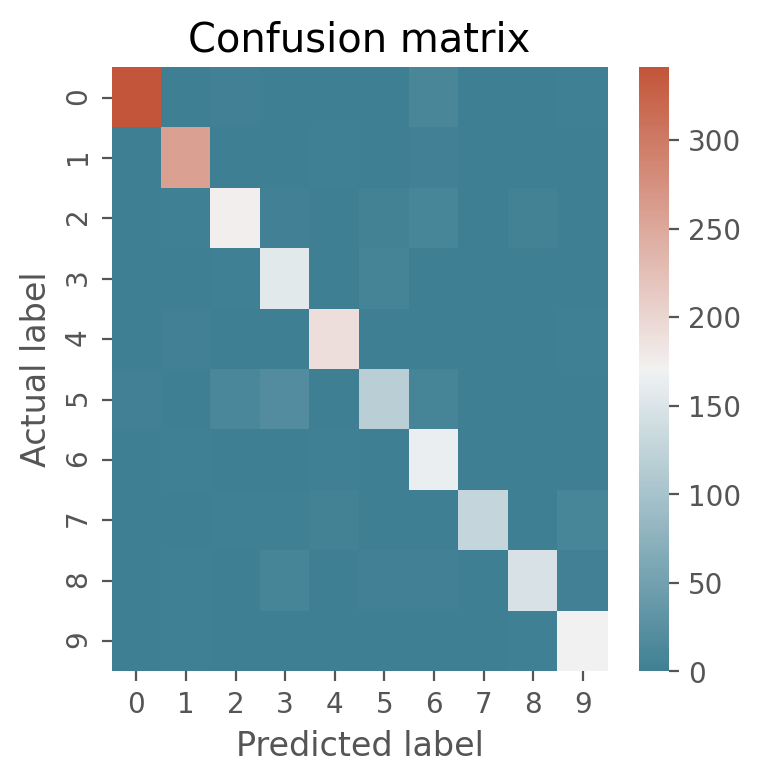
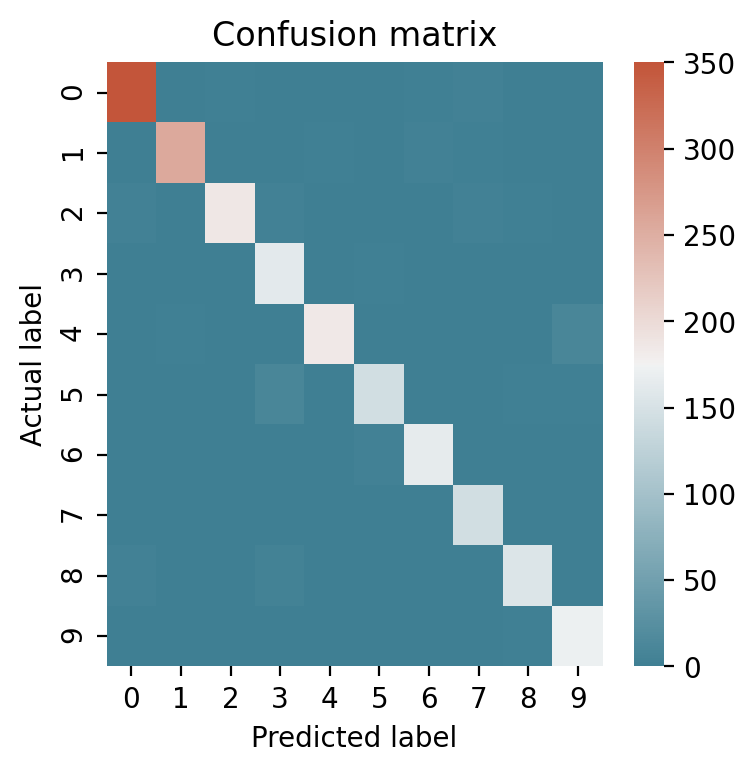
new best results

diff --git a/data.py b/data.py
@@ -1,37 +1,77 @@
 from torchvision import transforms
 import torchvision
 from torch.utils.data import DataLoader
+from RandAugment import RandAugment # https://github.com/ildoonet/pytorch-randaugment
+import torch
 
-def _get_transforms():
-    train_transform_weak = transforms.Compose([transforms.ToTensor(),
-                                            transforms.Resize(40),
-                                            transforms.RandomHorizontalFlip(),
-                                            #transforms.RandomVerticalFlip(),
-                                            transforms.RandomCrop(32)
-                                            ])
+def _get_transforms(use_randaugment=False):
+    """
+    if `use_randugment`=True we'll make use of RandAugment some modifications to the images are necessary:
+    we need to tile the images to expand them into having 3 channels and convert them into PIL images.
+    """
+    if use_randaugment:
+        class Tile():
+            def __init__(self):
+                pass
 
-    # ideally the strong transforms would use RandAugment, but I couldn't get it working...
-    train_transform_strong = transforms.Compose([transforms.ToTensor(),
-                                                transforms.Resize(40),
-                                                transforms.RandomHorizontalFlip(),
-                                                #transforms.RandomVerticalFlip(),
-                                                transforms.RandomCrop(32),
-                                                transforms.RandomInvert(),
-                                                transforms.RandomAutocontrast(),
-                                                transforms.RandomPerspective(),
-                                                transforms.GaussianBlur(kernel_size=(5, 9), sigma=(0.1, 1)),
-                                                transforms.RandomAffine(degrees=10, translate=(0.3, 0.3), scale=(0.7, 1.3), shear=(-2, 2, -2, 2))
-                                                ])
+            def __call__(self, tensor):
+                return torch.tile(tensor, (3, 1, 1)) # copies 2d array to the other 3 channels
+
+        train_transform_weak = transforms.Compose([transforms.ToTensor(),
+                                                   Tile(),
+                                                   transforms.ToPILImage(),
+                                                   transforms.RandomHorizontalFlip(),
+                                                   transforms.Resize(32),
+                                                   transforms.ToTensor()
+                                                   ])
+
+        train_transform_strong = transforms.Compose([transforms.ToTensor(),
+                                                     Tile(),
+                                                     transforms.ToPILImage(),
+                                                     transforms.Resize(32),
+                                                     RandAugment(2, 5), 
+                                                     transforms.ToTensor()
+                                                     ])
 
 
-    test_transform = transforms.Compose([transforms.ToTensor(),
-                                        transforms.Resize(32)
-                                        ])
+        test_transform = transforms.Compose([transforms.ToTensor(),
+                                             Tile(),
+                                             transforms.ToPILImage(),
+                                             transforms.Resize(32),
+                                             transforms.ToTensor()
+                                             ])
+                                                
+    else:
+        train_transform_weak = transforms.Compose([transforms.ToTensor(),
+                                                   transforms.Resize(40),
+                                                   #transforms.RandomHorizontalFlip(),
+                                                   transforms.RandomCrop(32),
+                                                   #transforms.Normalize(mean=[0.485, 0.456, 0.406], std=[0.229, 0.224, 0.225])
+                                                   ])
+
+        train_transform_strong = transforms.Compose([transforms.ToTensor(),
+                                                     transforms.Resize(40),
+                                                     #transforms.RandomHorizontalFlip(),
+                                                     #transforms.RandomVerticalFlip(),
+                                                     transforms.RandomCrop(32),
+                                                     transforms.RandomInvert(),
+                                                     #transforms.RandomAutocontrast(),
+                                                     transforms.GaussianBlur(kernel_size=(5, 9), sigma=(0.1, 1.)),
+                                                     transforms.RandomErasing(),
+                                                     transforms.RandomAffine(degrees=10, translate=(0.2, 0.2), scale=(0.2, 1.2))
+                                                     #transforms.Normalize(mean=[0.485, 0.456, 0.406], std=[0.229, 0.224, 0.225])
+                                                     ])
+
+
+        test_transform = transforms.Compose([transforms.ToTensor(),
+                                             transforms.Resize(32),
+                                             #transforms.Normalize(mean=[0.485, 0.456, 0.406], std=[0.229, 0.224, 0.225])
+                                             ])  
 
     return train_transform_weak, train_transform_strong, test_transform
 
-def get_dataloaders(download_path, batch_size_source=32, workers=0):
-    train_transform_weak, train_transform_strong, test_transform = _get_transforms()
+def get_dataloaders(download_path, batch_size_source=32, workers=0, use_randaugment=False):
+    train_transform_weak, train_transform_strong, test_transform = _get_transforms(use_randaugment)
 
     BATCH_SIZE_source = batch_size_source
     BATCH_SIZE_target = 3 * BATCH_SIZE_source

diff --git a/network.py b/network.py
@@ -5,27 +5,18 @@ class Network(nn.Module):
     def __init__(self, pretrained=False, input_dim=1, n_classes=10):
         super(Network, self).__init__()
 
-        default_resnet = resnet18(pretrained=pretrained)
+        self.resnet = resnet18(pretrained=pretrained)
 
         # necessary in order to use images with only 1 chnnel (MNIST and USPS data)
-        self.conv1 = nn.Conv2d(input_dim, 64, kernel_size=(7, 7), stride=(2, 2), padding=(3, 3), bias=False)
+        self.resnet.conv1 = nn.Conv2d(input_dim, 64, kernel_size=(7, 7), stride=(2, 2), padding=(3, 3), bias=False)
 
-        self.resnet = nn.Sequential(
-            default_resnet.bn1,
-            default_resnet.relu,
-            default_resnet.maxpool,
-            default_resnet.layer1,
-            default_resnet.layer2,
-            default_resnet.layer3,
-            default_resnet.layer4,
-            default_resnet.avgpool
+        self.resnet.fc = nn.Sequential(
+            nn.Dropout(),
+            nn.Linear(self.resnet.fc.in_features, 256),
+            nn.ReLU(),
+            nn.Linear(256, n_classes)
         )
 
-        self.fc = nn.Linear(default_resnet.fc.in_features, n_classes)
-
     def forward(self, x):
-        x = self.conv1(x)
         x = self.resnet(x)
-        x = x.view(x.size(0), -1)
-        x = self.fc(x)
         return x

diff --git a/adamatch.py b/adamatch.py
@@ -29,7 +29,7 @@ def train(classifier,
     if not os.path.isfile(checkpoint_path): # if checkpoint doesn't exist
         optimizer = optim.Adam(list(classifier.parameters()), lr=lr, weight_decay=weight_decay)
         #scheduler = CosineAnnealingWarmRestarts(optimizer, total_steps, eta_min=lr*0.25)
-        scheduler = StepLR(optimizer, step_size=15, gamma=0.1)
+        scheduler = StepLR(optimizer, step_size=25, gamma=0.1)
 
         start_epoch = 0
         current_step = 0
@@ -44,7 +44,7 @@ def train(classifier,
         optimizer.load_state_dict(checkpoint['optimizer_weights'])
 
         #scheduler = CosineAnnealingWarmRestarts(optimizer, total_steps, eta_min=lr*0.25)
-        scheduler = StepLR(optimizer, step_size=15, gamma=0.1)
+        scheduler = StepLR(optimizer, step_size=25, gamma=0.1)
         scheduler.load_state_dict(checkpoint['scheduler_weights'])
 
         start_epoch = checkpoint['epoch'] + 1

diff --git a/metrics.py b/metrics.py
@@ -19,12 +19,12 @@ def plot_metrics(history):
     axs[1].plot(range(1, epochs+1), history['accuracy_source'])
     axs[1].set_xlabel('Epochs')
     axs[1].set_ylabel('Loss')
-    axs[1].set_title('Acuracy on weakly augmented source')
+    axs[1].set_title('Accuracy on weakly augmented source')
 
     axs[2].plot(range(1, epochs+1), history['accuracy_target'])
     axs[2].set_xlabel('Epochs')
     axs[2].set_ylabel('Counts')
-    axs[2].set_title('Acuracy on weakly augmented target')      
+    axs[2].set_title('Accuracy on weakly augmented target')      
         
     plt.show()
 

diff --git a/run.py b/run.py
@@ -9,7 +9,7 @@ n_classes = 10
 device = torch.device("cuda:0" if torch.cuda.is_available() else "cpu")
 
 # get source and target data
-data = get_dataloaders("./", batch_size_source=32, workers=0)
+data = get_dataloaders("./", batch_size_source=32, workers=2, use_randaugment=False)
 source_dataloader_train_weak, source_dataloader_train_strong, source_dataloader_test = data[0]
 target_dataloader_train_weak, target_dataloader_train_strong, target_dataloader_test = data[1]
 

diff --git a/README.md b/README.md
@@ -12,8 +12,8 @@ python run.py
 But, note that this implementation is to be used more as a starting point, and you'll have to dig a little deeper on the python code in order to change hyperparameters, transforms and the data that is being loaded.
 
 Running the the code as implemented here achieves the following results: 
-- Accuracy on source dataset = _0.9645_ 
-- Accuracy on target dataset = _0.9217_ 
+- Accuracy on source dataset = _0.9822_ 
+- Accuracy on target dataset = _0.9561_ 
 
 The training metrics (accuracy considered over the test set) and confusion matrix (on the test set) are, respectivelly:
 <img src="fig_metrics.png" alt="Training metrics"/>
@@ -21,7 +21,7 @@ The training metrics (accuracy considered over the test set) and confusion matri
 
 ## What's the difference from the TensorFlow implementation?
 There are some very important differences:
-1. I don't use RandAugment for the strong augmentations. The main reason is because I couldn't get available RandAugment PyTorch implementations to work with my data. Also, from what I've seen, current RandAugment implementations use `PIL` for most transforms, which could end up in information loss if you're working with certain delicate images (exactly the domain that I plan to use AdaMatch on). To compensate for it I did some DIY transforms that are very hacky, but seem to get the job done.
+1. While the TensorFlow implementation uses RandAugment, I don't use it as my default option. This is simply due to the fact that I didn't get the best results while doing so. Instead, I managed to get a better target accuracy by doing some DIY transforms directly on the tensors, as highlighted in `data.py`.
 2. I use a ResNet18 as my classifier. It shouldn't be too hard to use other networks though, it's juts a matter of importing another network in its place.
 3. The TensorFlow implementation uses `CosineDecay` for the learning rate scheduler. I tried replicating it in PyTorch with `CosineAnnealingWarmRestarts`, but I'm not sure if this is the way to do to it, so I settled with using a `StepLR` scheduler.
 
